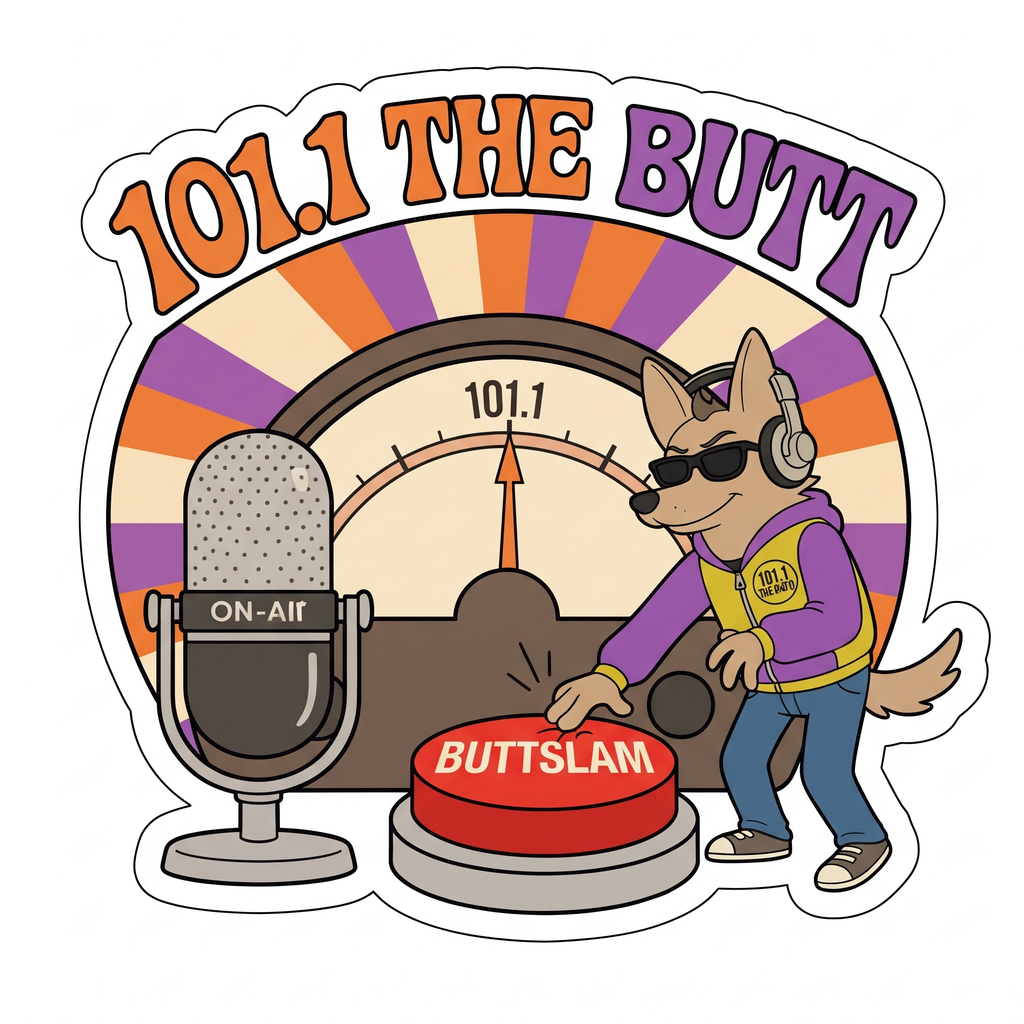
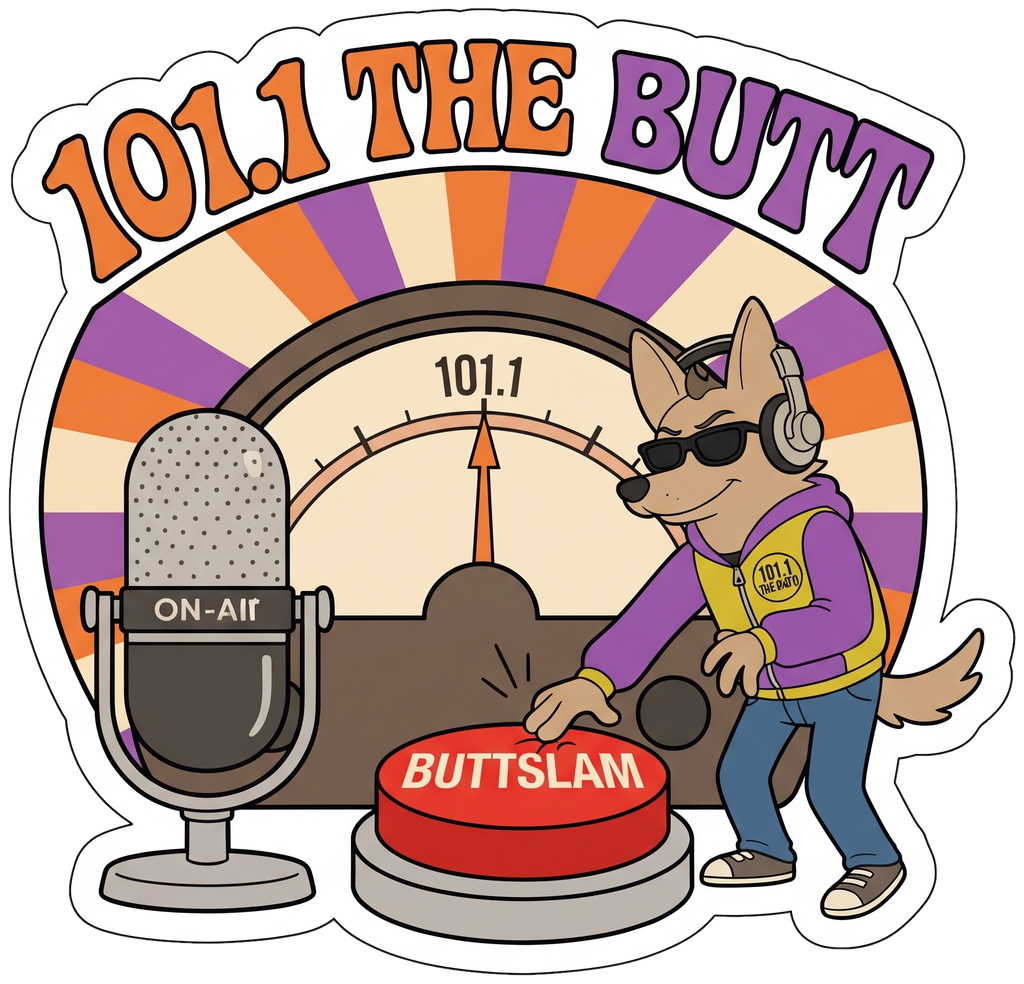
Stickers with transparent backgrounds (downloads and glossary)
Claude-Session: https://claude.ai/code/session_01RKrCQvFBNufFDHpiXxHSH7

diff --git a/public/index.html b/public/index.html
@@ -17,7 +17,7 @@
 <link rel="preconnect" href="https://fonts.googleapis.com">
 <link rel="preconnect" href="https://fonts.gstatic.com" crossorigin>
 <link rel="stylesheet" href="https://fonts.googleapis.com/css2?family=Chakra+Petch:wght@400;600;700&family=Monoton&family=Share+Tech+Mono&family=VT323&display=swap">
-<link rel="stylesheet" href="css/site.css?v=2335760e">
+<link rel="stylesheet" href="css/site.css?v=7169ce55">
 
 <div class="bg" aria-hidden="true"><div class="sun"></div><canvas class="rain" id="rain"></canvas><div class="floor"></div></div>
 <div class="scan" aria-hidden="true"></div>
@@ -479,13 +479,13 @@
       </div>
     </div>
     <div class="wp-grid" id="wp-grid"></div>
-    <div class="wp-head"><h3 class="glitch" data-text="Stickers">Stickers</h3><p class="st-note">Die-cut and ready for a sticker printer. 1024×1024 PNG.</p></div>
+    <div class="wp-head"><h3 class="glitch" data-text="Stickers">Stickers</h3><p class="st-note">Die-cut with transparent backgrounds, ready for a sticker printer or a Discord emoji. PNG, up to 1024 px.</p></div>
     <div class="st-grid">
-      <figure class="st hud"><img src="stickers/101-1-the-butt.png" alt="101.1 The Butt sticker" width="1024" height="1024" loading="lazy"><figcaption><b>101.1 The Butt</b><a class="btn sm" href="stickers/101-1-the-butt.png" download="callective-sticker-101-1-the-butt.png">Download</a></figcaption></figure>
-      <figure class="st hud"><img src="stickers/pla-bell-callective.png" alt="PLA bell: The Callective sticker" width="1024" height="1024" loading="lazy"><figcaption><b>PLA bell: The Callective</b><a class="btn sm" href="stickers/pla-bell-callective.png" download="callective-sticker-pla-bell-callective.png">Download</a></figcaption></figure>
-      <figure class="st hud"><img src="stickers/pla-bell-bellective.png" alt="PLA bell: The Bellective sticker" width="1024" height="1024" loading="lazy"><figcaption><b>PLA bell: The Bellective</b><a class="btn sm" href="stickers/pla-bell-bellective.png" download="callective-sticker-pla-bell-bellective.png">Download</a></figcaption></figure>
-      <figure class="st hud"><img src="stickers/caw.png" alt="Caw sticker" width="1024" height="1024" loading="lazy"><figcaption><b>Caw</b><a class="btn sm" href="stickers/caw.png" download="callective-sticker-caw.png">Download</a></figcaption></figure>
-      <figure class="st hud"><img src="stickers/quackers.png" alt="Quackers sticker" width="1024" height="1024" loading="lazy"><figcaption><b>Quackers</b><a class="btn sm" href="stickers/quackers.png" download="callective-sticker-quackers.png">Download</a></figcaption></figure>
+      <figure class="st hud"><img src="stickers/101-1-the-butt.png" width="1024" height="984" alt="101.1 The Butt sticker" loading="lazy"><figcaption><b>101.1 The Butt</b><a class="btn sm" href="stickers/101-1-the-butt.png" download="callective-sticker-101-1-the-butt.png">Download</a></figcaption></figure>
+      <figure class="st hud"><img src="stickers/pla-bell-callective.png" width="979" height="1024" alt="PLA bell: The Callective sticker" loading="lazy"><figcaption><b>PLA bell: The Callective</b><a class="btn sm" href="stickers/pla-bell-callective.png" download="callective-sticker-pla-bell-callective.png">Download</a></figcaption></figure>
+      <figure class="st hud"><img src="stickers/pla-bell-bellective.png" width="980" height="1024" alt="PLA bell: The Bellective sticker" loading="lazy"><figcaption><b>PLA bell: The Bellective</b><a class="btn sm" href="stickers/pla-bell-bellective.png" download="callective-sticker-pla-bell-bellective.png">Download</a></figcaption></figure>
+      <figure class="st hud"><img src="stickers/caw.png" width="710" height="1024" alt="Caw sticker" loading="lazy"><figcaption><b>Caw</b><a class="btn sm" href="stickers/caw.png" download="callective-sticker-caw.png">Download</a></figcaption></figure>
+      <figure class="st hud"><img src="stickers/quackers.png" width="868" height="1024" alt="Quackers sticker" loading="lazy"><figcaption><b>Quackers</b><a class="btn sm" href="stickers/quackers.png" download="callective-sticker-quackers.png">Download</a></figcaption></figure>
     </div>
   </div>
 </section>

diff --git a/src/page.html b/src/page.html
@@ -466,13 +466,13 @@
       </div>
     </div>
     <div class="wp-grid" id="wp-grid"></div>
-    <div class="wp-head"><h3 class="glitch" data-text="Stickers">Stickers</h3><p class="st-note">Die-cut and ready for a sticker printer. 1024×1024 PNG.</p></div>
+    <div class="wp-head"><h3 class="glitch" data-text="Stickers">Stickers</h3><p class="st-note">Die-cut with transparent backgrounds, ready for a sticker printer or a Discord emoji. PNG, up to 1024 px.</p></div>
     <div class="st-grid">
-      <figure class="st hud"><img src="stickers/101-1-the-butt.png" alt="101.1 The Butt sticker" width="1024" height="1024" loading="lazy"><figcaption><b>101.1 The Butt</b><a class="btn sm" href="stickers/101-1-the-butt.png" download="callective-sticker-101-1-the-butt.png">Download</a></figcaption></figure>
-      <figure class="st hud"><img src="stickers/pla-bell-callective.png" alt="PLA bell: The Callective sticker" width="1024" height="1024" loading="lazy"><figcaption><b>PLA bell: The Callective</b><a class="btn sm" href="stickers/pla-bell-callective.png" download="callective-sticker-pla-bell-callective.png">Download</a></figcaption></figure>
-      <figure class="st hud"><img src="stickers/pla-bell-bellective.png" alt="PLA bell: The Bellective sticker" width="1024" height="1024" loading="lazy"><figcaption><b>PLA bell: The Bellective</b><a class="btn sm" href="stickers/pla-bell-bellective.png" download="callective-sticker-pla-bell-bellective.png">Download</a></figcaption></figure>
-      <figure class="st hud"><img src="stickers/caw.png" alt="Caw sticker" width="1024" height="1024" loading="lazy"><figcaption><b>Caw</b><a class="btn sm" href="stickers/caw.png" download="callective-sticker-caw.png">Download</a></figcaption></figure>
-      <figure class="st hud"><img src="stickers/quackers.png" alt="Quackers sticker" width="1024" height="1024" loading="lazy"><figcaption><b>Quackers</b><a class="btn sm" href="stickers/quackers.png" download="callective-sticker-quackers.png">Download</a></figcaption></figure>
+      <figure class="st hud"><img src="stickers/101-1-the-butt.png" width="1024" height="984" alt="101.1 The Butt sticker" loading="lazy"><figcaption><b>101.1 The Butt</b><a class="btn sm" href="stickers/101-1-the-butt.png" download="callective-sticker-101-1-the-butt.png">Download</a></figcaption></figure>
+      <figure class="st hud"><img src="stickers/pla-bell-callective.png" width="979" height="1024" alt="PLA bell: The Callective sticker" loading="lazy"><figcaption><b>PLA bell: The Callective</b><a class="btn sm" href="stickers/pla-bell-callective.png" download="callective-sticker-pla-bell-callective.png">Download</a></figcaption></figure>
+      <figure class="st hud"><img src="stickers/pla-bell-bellective.png" width="980" height="1024" alt="PLA bell: The Bellective sticker" loading="lazy"><figcaption><b>PLA bell: The Bellective</b><a class="btn sm" href="stickers/pla-bell-bellective.png" download="callective-sticker-pla-bell-bellective.png">Download</a></figcaption></figure>
+      <figure class="st hud"><img src="stickers/caw.png" width="710" height="1024" alt="Caw sticker" loading="lazy"><figcaption><b>Caw</b><a class="btn sm" href="stickers/caw.png" download="callective-sticker-caw.png">Download</a></figcaption></figure>
+      <figure class="st hud"><img src="stickers/quackers.png" width="868" height="1024" alt="Quackers sticker" loading="lazy"><figcaption><b>Quackers</b><a class="btn sm" href="stickers/quackers.png" download="callective-sticker-quackers.png">Download</a></figcaption></figure>
     </div>
   </div>
 </section>

diff --git a/public/css/site.css b/public/css/site.css
@@ -1292,7 +1292,7 @@ body[data-mode="hell"] .hero::before{background:linear-gradient(90deg,var(--void
 .mode-card.out{opacity:0;transition:opacity .5s}
 @keyframes mcIn{from{opacity:0;transform:scale(1.06)}to{opacity:1;transform:none}}
 .sheet .mug a{display:contents}
-.gl-img img{object-fit:contain;background:#fff1}
+.gl-img img{object-fit:contain;background:transparent}
 .st-grid{display:grid;grid-template-columns:repeat(auto-fill,minmax(180px,1fr));gap:14px;margin-top:14px}
 .st{margin:0;padding:12px;display:flex;flex-direction:column;gap:10px}
 .st img{width:100%;height:auto;border-radius:8px}
